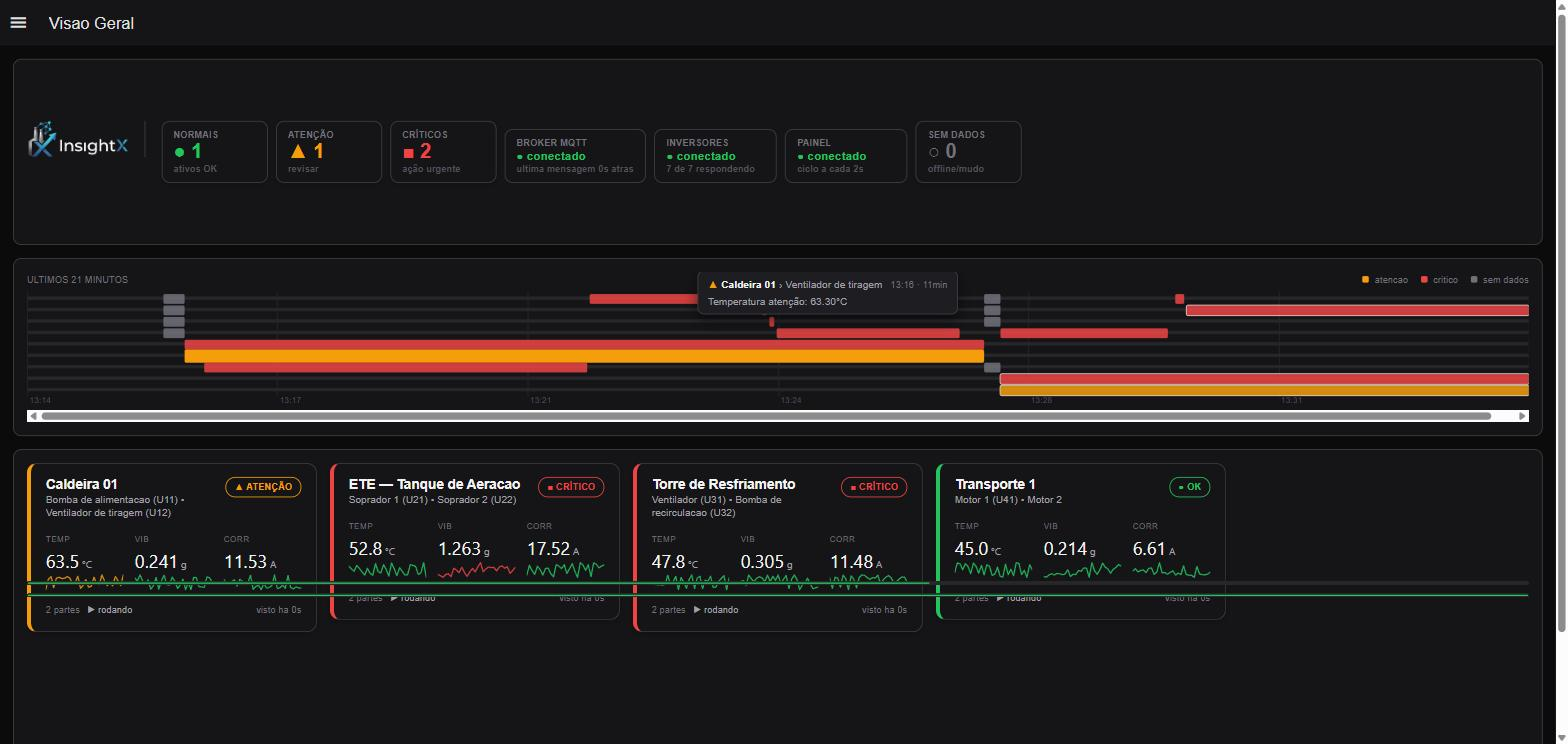
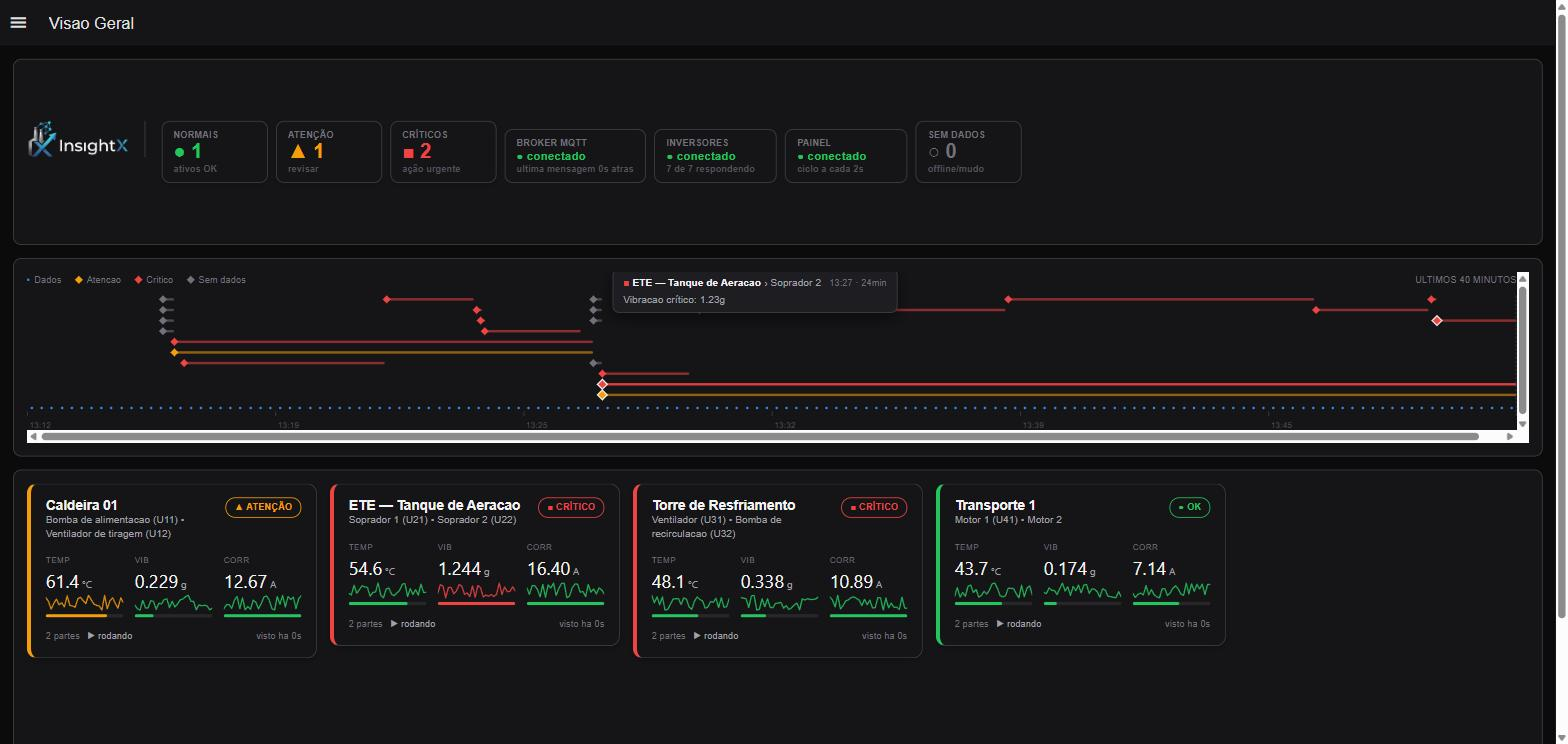
Linha do tempo no estilo da referencia: losangos, faixa de cobertura
Reaproxima o visual da referencia (SEMEQ) sem perder o que a nossa versao
tinha a mais:

  legenda a esquerda com simbolo + rotulo
  LOSANGO marcando o inicio de cada evento
  faixa de PONTOS embaixo para a cobertura de dados
  marcas de tick com o horario
  linha tracejada do "agora" na borda direita

O losango marca o inicio; a barra fina ao lado dele diz quanto durou --
que a referencia nao mostra, e que separa "piscou uma vez" de "esta assim
ha 24 minutos".

FAIXA DE COBERTURA. Na referencia cada ponto e uma medicao, porque eles
medem de forma esparsa. Aqui a publicacao e a cada 2s: desenhar cada
leitura daria uma linha solida sem informacao. O equivalente util e a
COBERTURA -- onde houve dado e, principalmente, onde faltou. As lacunas
sao registradas quando nenhum dispositivo publica, e aparecem como
interrupcao na fileira de pontos.

Alvo de acerto de 22px em volta dos losangos de 7px, e faixa de 13px em
volta das barras de 3px. Mirar num marcador desse tamanho e frustrante, e
a informacao dele so existe no hover -- se e dificil acertar, e como se
nao estivesse la. Conferido: o tooltip abre pelo alvo ampliado.

Changed region(s): [[0.0, 0.371, 1.0, 0.8656], [0.75, 0.6492, 0.7812, 0.711]]

diff --git a/nodered/gera_flow.py b/nodered/gera_flow.py
@@ -1037,6 +1037,21 @@ const visto_algum = Math.max.apply(null,
 const barramento_mudo = Object.keys(registro).length > 0 &&
                         (agora - visto_algum) > SEM_DADOS_MS;
 
+// Lacunas de cobertura: intervalos em que NENHUM dispositivo publicou.
+// E o que a faixa de pontos da linha do tempo desenha como falha -- o
+// equivalente util dos "ticks de medicao": num sistema que publica a cada
+// 2s, o que informa nao e cada leitura, e onde ELAS FALTARAM.
+let lacunas = flow.get('lacunas') || [];
+const aberta = lacunas.length && !lacunas[lacunas.length - 1].fim
+    ? lacunas[lacunas.length - 1] : null;
+if (barramento_mudo && !aberta) {
+    lacunas.push({ ini: visto_algum || agora, fim: null });
+} else if (!barramento_mudo && aberta) {
+    aberta.fim = agora;
+}
+if (lacunas.length > 200) { lacunas = lacunas.slice(-200); }
+flow.set('lacunas', lacunas);
+
 const elos = [
     { nome: 'Broker MQTT',
       ok: !barramento_mudo,
@@ -1450,7 +1465,20 @@ for (let k = 0; k <= 6; k++) {
                   rot: new Date(t).toLocaleTimeString([], { hour: '2-digit', minute: '2-digit' }) });
 }
 
-const m10 = { payload: { eventos: eventos, marcas: marcas,
+// Faixa de cobertura: divide a janela em fatias e marca as que tiveram
+// dado. Fatia demais vira linha continua; de menos, esconde falha curta.
+const N_PONTOS = 150;
+const pontos = [];
+for (let k = 0; k < N_PONTOS; k++) {
+    const t = t0 + (JANELA_MS * (k + 0.5) / N_PONTOS);
+    if (t > agora) { break; }
+    const dentro_lacuna = lacunas.some(function (l) {
+        return t >= l.ini && t <= (l.fim || agora);
+    });
+    pontos.push({ pct: ((k + 0.5) / N_PONTOS) * 100, ok: !dentro_lacuna });
+}
+
+const m10 = { payload: { eventos: eventos, marcas: marcas, pontos: pontos,
                          faixas: Math.max(1, fim_faixa.length),
                          janela: rotulo_janela(JANELA_MS) } };
 
@@ -2286,60 +2314,73 @@ no(id="pg_rel_conteudo", type="ui-template", z="flow_monitor", group=G_REL,
 LINHA_TEMPO = r"""
 <template>
     <div class="lt">
-        <div class="lt-cab">
-            <span class="lt-tit">{{ janela }}</span>
-            <span class="lt-leg">
-                <span class="lt-pt" style="background:#f59e0b"></span> atencao
-                <span class="lt-pt" style="background:#ef4444"></span> critico
-                <span class="lt-pt" style="background:#71717a"></span> sem dados
-            </span>
+        <!-- legenda a esquerda, como na referencia -->
+        <div class="lt-leg">
+            <span class="lt-li"><i class="lt-dot"></i>Dados</span>
+            <span class="lt-li"><i class="lt-dia lt-c-at"></i>Atencao</span>
+            <span class="lt-li"><i class="lt-dia lt-c-cr"></i>Critico</span>
+            <span class="lt-li"><i class="lt-dia lt-c-sd"></i>Sem dados</span>
+            <span class="lt-jan">{{ janela }}</span>
         </div>
 
         <div class="lt-faixa" ref="faixa" @mouseleave="dica = null"
-             :style="{ height: (18 + faixas * 14) + 'px' }">
-            <!-- grade de horas -->
-            <div v-for="m in marcas" :key="'m'+m.pct" class="lt-marca"
+             :style="{ paddingTop: (faixas * 13) + 'px' }">
+
+            <!-- eventos: losango no inicio + barra da duracao -->
+            <template v-for="(e, i) in eventos">
+                <div :key="'b'+i" class="lt-bar"
+                     :style="{ left: e.ini + '%', width: e.larg + '%',
+                               top: (e.faixa * 13) + 'px', background: e.cor }"
+                     @mouseenter="mostrar(e, $event)"></div>
+                <div :key="'d'+i" class="lt-dia lt-mk"
+                     :class="{ 'lt-aberto': e.aberto }"
+                     :style="{ left: e.ini + '%', top: (e.faixa * 13 + 1) + 'px',
+                               background: e.cor }"
+                     @mouseenter="mostrar(e, $event)"></div>
+            </template>
+
+            <!-- faixa de cobertura -->
+            <div class="lt-cob">
+                <i v-for="(p, i) in pontos" :key="'p'+i"
+                   class="lt-dot" :class="{ 'lt-off': !p.ok }"
+                   :style="{ left: p.pct + '%' }"></i>
+            </div>
+
+            <!-- grade e rotulos -->
+            <div v-for="m in marcas" :key="'m'+m.pct" class="lt-tick"
                  :style="{ left: m.pct + '%' }">
                 <span class="lt-rot">{{ m.rot }}</span>
             </div>
 
-            <!-- trilho -->
-            <div v-for="k in faixas" :key="'t'+k" class="lt-trilho"
-                 :style="{ top: (2 + (k-1) * 14) + 'px' }"></div>
+            <!-- agora -->
+            <div class="lt-agora"></div>
 
-            <!-- eventos: barra quando tem duracao, tick quando e instantaneo -->
-            <div v-for="(e, i) in eventos" :key="i"
-                 class="lt-evt" :class="{ 'lt-aberto': e.aberto }"
-                 :style="{ left: e.ini + '%', width: e.larg + '%',
-                           top: (2 + e.faixa * 14) + 'px', background: e.cor }"
-                 @mouseenter="mostrar(e, $event)">
-            </div>
-
-            <div v-if="!eventos.length" class="lt-vazio">
-                Nenhum evento nas ultimas 24 horas
+            <div v-if="!eventos.length && !pontos.length" class="lt-vazio">
+                Aguardando dados
             </div>
         </div>
 
-        <!-- tooltip -->
         <div v-if="dica" class="lt-dica" :style="{ left: dica.x + 'px' }">
-            <div class="lt-d-l1">
+            <div class="lt-d1">
                 <span :style="{ color: dica.cor }">{{ dica.simb }}</span>
                 <b>{{ dica.ativo }}</b>
-                <span v-if="dica.parte" class="lt-d-parte">› {{ dica.parte }}</span>
-                <span class="lt-d-tempo">{{ dica.quando }} · {{ dica.duracao }}</span>
+                <span v-if="dica.parte" class="lt-dp">&rsaquo; {{ dica.parte }}</span>
+                <span class="lt-dt">{{ dica.quando }} &middot; {{ dica.duracao }}</span>
             </div>
-            <div class="lt-d-mot">{{ dica.motivos }}</div>
+            <div class="lt-dm">{{ dica.motivos }}</div>
         </div>
     </div>
 </template>
 
 <script>
 export default {
-    data () { return { eventos: [], marcas: [], janela: '', faixas: 1, dica: null } },
+    data () {
+        return { eventos: [], marcas: [], pontos: [], janela: '',
+                 faixas: 1, dica: null }
+    },
     methods: {
         mostrar (e, ev) {
             const f = this.$refs.faixa.getBoundingClientRect();
-            // Prende o tooltip dentro da faixa, senao ele escapa nas pontas.
             const x = Math.min(Math.max(ev.clientX - f.left - 150, 0), f.width - 320);
             this.dica = Object.assign({}, e, { x: x });
         }
@@ -2349,9 +2390,10 @@ export default {
             immediate: true,
             handler (m) {
                 const p = (m && m.payload) || {};
-                if (!p.eventos) { return; }
-                this.eventos = p.eventos;
+                if (!p.pontos && !p.eventos) { return; }
+                this.eventos = p.eventos || [];
                 this.marcas = p.marcas || [];
+                this.pontos = p.pontos || [];
                 this.janela = p.janela || '';
                 this.faixas = p.faixas || 1;
             }
@@ -2361,45 +2403,75 @@ export default {
 </script>
 
 <style scoped>
-.lt   { position: relative; }
-.lt-cab  { display: flex; justify-content: space-between; align-items: baseline;
-        margin-bottom: 6px; }
-.lt-tit  { font-size: 11px; text-transform: uppercase; letter-spacing: .4px;
-        color: #71717a; }
-.lt-leg  { font-size: 11px; color: #71717a; }
-.lt-pt   { display: inline-block; width: 8px; height: 8px; border-radius: 2px;
-        margin: 0 4px 0 12px; vertical-align: 0; }
+.lt { position: relative; }
 
-.lt-faixa   { position: relative; min-height: 32px; }
-.lt-trilho  { position: absolute; left: 0; right: 0; height: 10px;
-           background: #1c1c1f; border: 1px solid #27272a; border-radius: 3px; }
+/* --- legenda ------------------------------------------------------- */
+.lt-leg { display: flex; align-items: center; gap: 18px; margin-bottom: 10px;
+          font-size: 11px; color: #71717a; }
+.lt-li  { display: inline-flex; align-items: center; gap: 6px; }
+.lt-jan { margin-left: auto; text-transform: uppercase; letter-spacing: .4px; }
 
-.lt-marca   { position: absolute; top: 0; bottom: 16px; width: 1px;
-           background: #27272a; }
-.lt-rot     { position: absolute; bottom: -14px; left: 3px; font-size: 10px;
+/* --- marcadores ---------------------------------------------------- */
+.lt-dot { position: absolute; width: 3px; height: 3px; border-radius: 50%;
+          background: #3987e5; transform: translateX(-50%); }
+.lt-leg .lt-dot { position: static; transform: none; }
+.lt-dot.lt-off  { background: #52525b; opacity: .45; }
+
+/* Losango: o quadrado girado da referencia. Marca o INICIO do evento --
+   e a barra ao lado diz quanto durou, que a referencia nao mostra. */
+.lt-dia { width: 7px; height: 7px; transform: rotate(45deg);
+          background: #71717a; flex: none; }
+.lt-c-at { background: #f59e0b; }
+.lt-c-cr { background: #ef4444; }
+.lt-c-sd { background: #71717a; }
+
+/* --- faixa --------------------------------------------------------- */
+.lt-faixa { position: relative; padding-bottom: 26px; }
+
+.lt-bar { position: absolute; height: 3px; margin-top: 3px; opacity: .55;
+          border-radius: 2px; cursor: pointer; min-width: 2px; }
+.lt-bar:hover { opacity: .9; }
+
+.lt-mk  { position: absolute; margin-left: -3px; cursor: pointer;
+          transition: transform .15s; }
+.lt-mk:hover { transform: rotate(45deg) scale(1.5); }
+/* Alvo de acerto invisivel de 22px em volta do losango de 7px: mirar num
+   marcador desse tamanho com o mouse e frustrante, e a informacao dele so
+   existe no hover -- se e dificil acertar, e como se nao estivesse la. */
+.lt-mk::before { content: ''; position: absolute; top: -8px; left: -8px;
+                 right: -8px; bottom: -8px; }
+
+/* Mesma logica na barra: 3px de altura nao se acerta. */
+.lt-bar::before { content: ''; position: absolute; top: -5px; left: 0;
+                  right: 0; bottom: -5px; }
+/* Evento ainda aberto: anel claro. E o que exige acao agora. */
+.lt-mk.lt-aberto { box-shadow: 0 0 0 1.5px #f4f4f5; }
+
+.lt-cob { position: relative; height: 3px; margin-top: 6px; }
+
+/* --- grade --------------------------------------------------------- */
+.lt-tick { position: absolute; bottom: 18px; height: 5px; width: 1px;
+           background: #3f3f46; }
+.lt-rot  { position: absolute; top: 7px; left: 3px; font-size: 10px;
            color: #52525b; white-space: nowrap; }
 
-/* Evento com duracao vira barra; instantaneo tem largura minima e vira
-   tick. Assim "piscou uma vez" e "esta ha 3 horas" nao parecem iguais. */
-.lt-evt     { position: absolute; height: 12px; border-radius: 2px;
-           min-width: 3px; cursor: pointer; opacity: .85;
-           transition: opacity .15s, transform .15s; }
-.lt-evt:hover { opacity: 1; transform: scaleY(1.35); }
-/* Evento ainda aberto ganha contorno claro: e o que exige acao agora. */
-.lt-evt.lt-aberto { box-shadow: 0 0 0 1px #f4f4f5; }
+/* "agora": a linha tracejada da referencia */
+.lt-agora { position: absolute; right: 0; top: 0; bottom: 18px; width: 0;
+            border-left: 1px dashed #52525b; }
 
-.lt-vazio { position: absolute; top: 12px; left: 12px; font-size: 12px;
-         color: #52525b; }
+.lt-vazio { position: absolute; top: 0; left: 4px; font-size: 12px;
+            color: #52525b; }
 
-.lt-dica  { position: absolute; top: -2px; z-index: 20; min-width: 300px;
-         max-width: 460px; background: #1e1e22; border: 1px solid #3f3f46;
-         border-radius: 8px; padding: 7px 12px;
-         box-shadow: 0 6px 18px rgba(0,0,0,.55); pointer-events: none; }
-.lt-d-l1    { font-size: 12px; color: #f4f4f5; white-space: nowrap; }
-.lt-d-l1 b  { font-weight: 600; margin-left: 4px; }
-.lt-d-parte { color: #a1a1aa; margin-left: 4px; }
-.lt-d-tempo { color: #71717a; font-size: 11px; margin-left: 10px; }
-.lt-d-mot   { color: #a1a1aa; font-size: 12px; margin-top: 3px; line-height: 1.35; }
+/* --- tooltip ------------------------------------------------------- */
+.lt-dica { position: absolute; top: -4px; z-index: 20; min-width: 300px;
+           max-width: 460px; background: #1e1e22; border: 1px solid #3f3f46;
+           border-radius: 8px; padding: 7px 12px;
+           box-shadow: 0 6px 18px rgba(0,0,0,.55); pointer-events: none; }
+.lt-d1  { font-size: 12px; color: #f4f4f5; white-space: nowrap; }
+.lt-d1 b { font-weight: 600; margin-left: 4px; }
+.lt-dp  { color: #a1a1aa; margin-left: 4px; }
+.lt-dt  { color: #71717a; font-size: 11px; margin-left: 10px; }
+.lt-dm  { color: #a1a1aa; font-size: 12px; margin-top: 3px; line-height: 1.35; }
 </style>
 """
 
